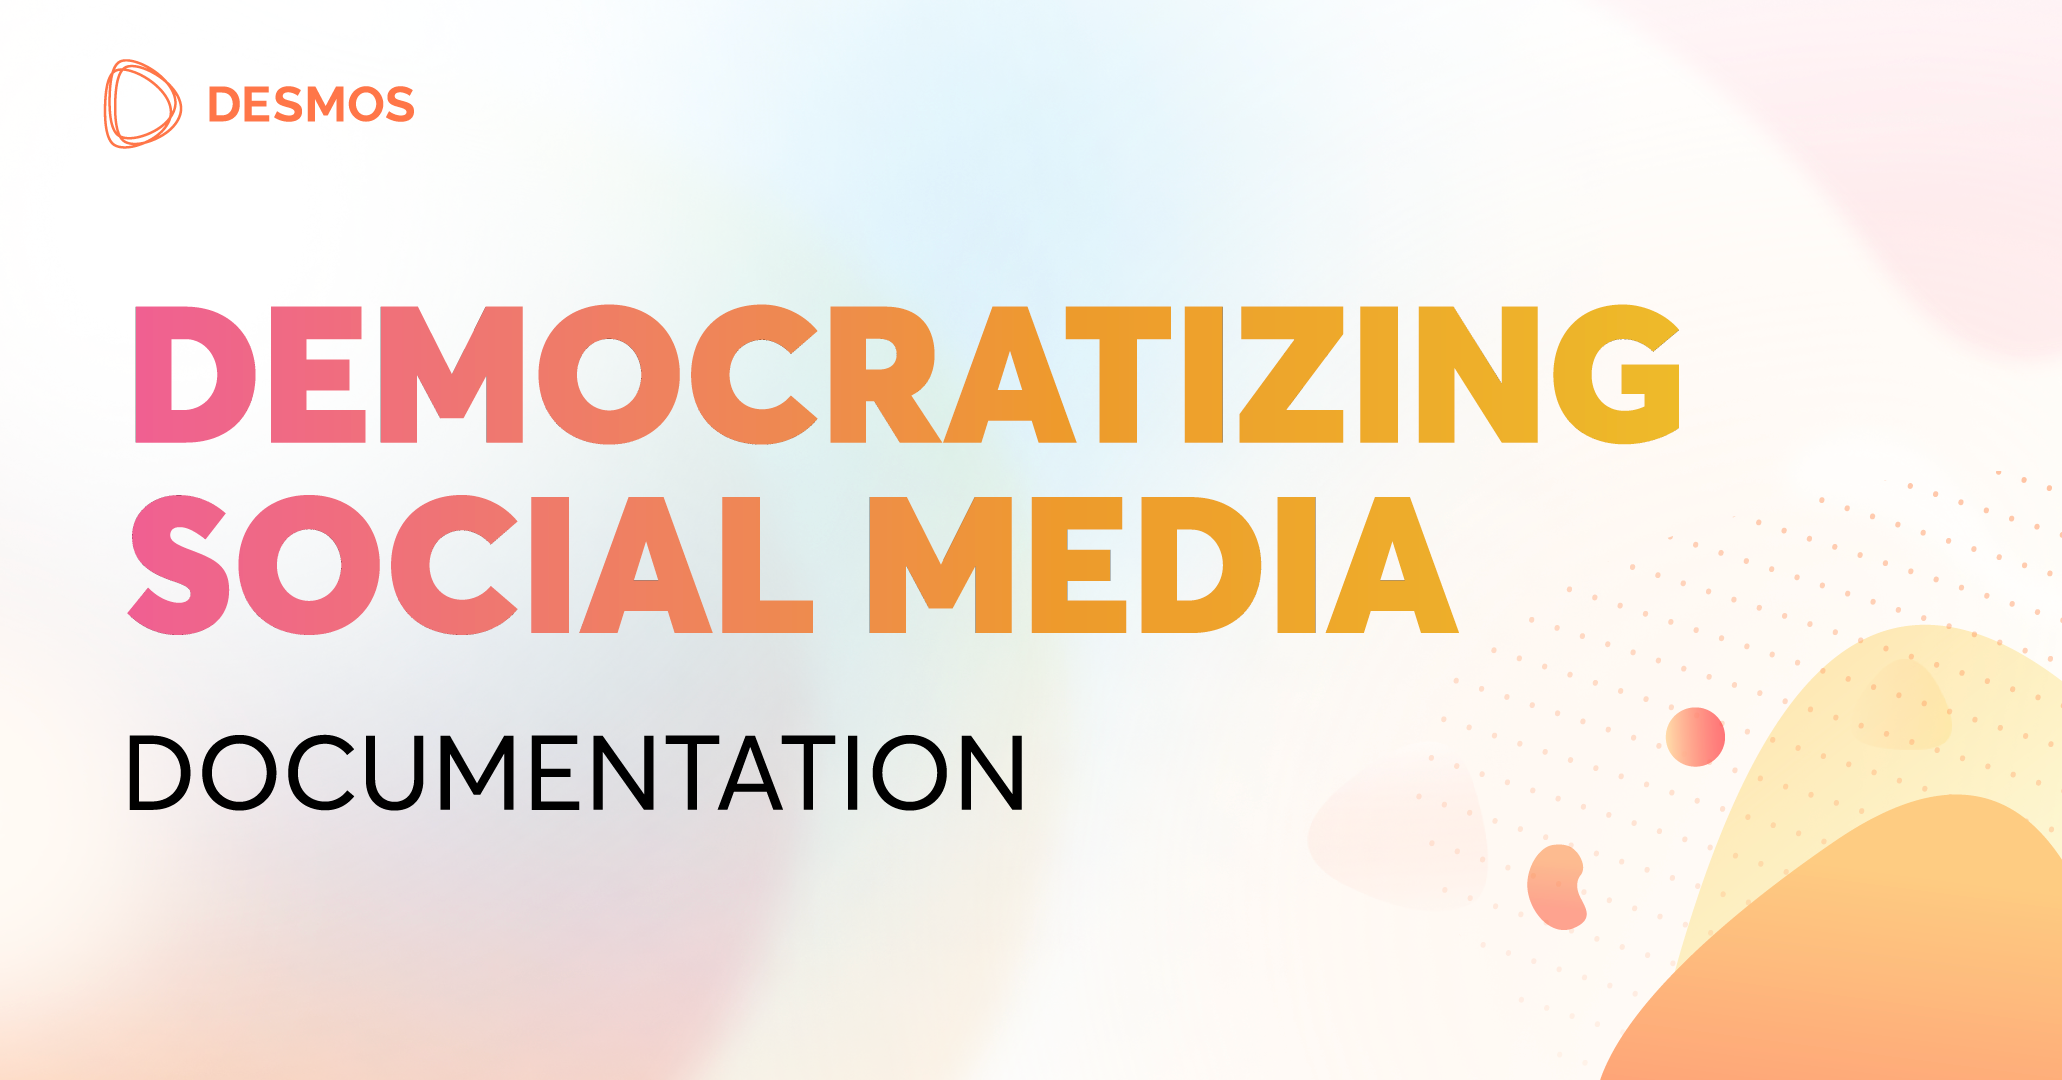
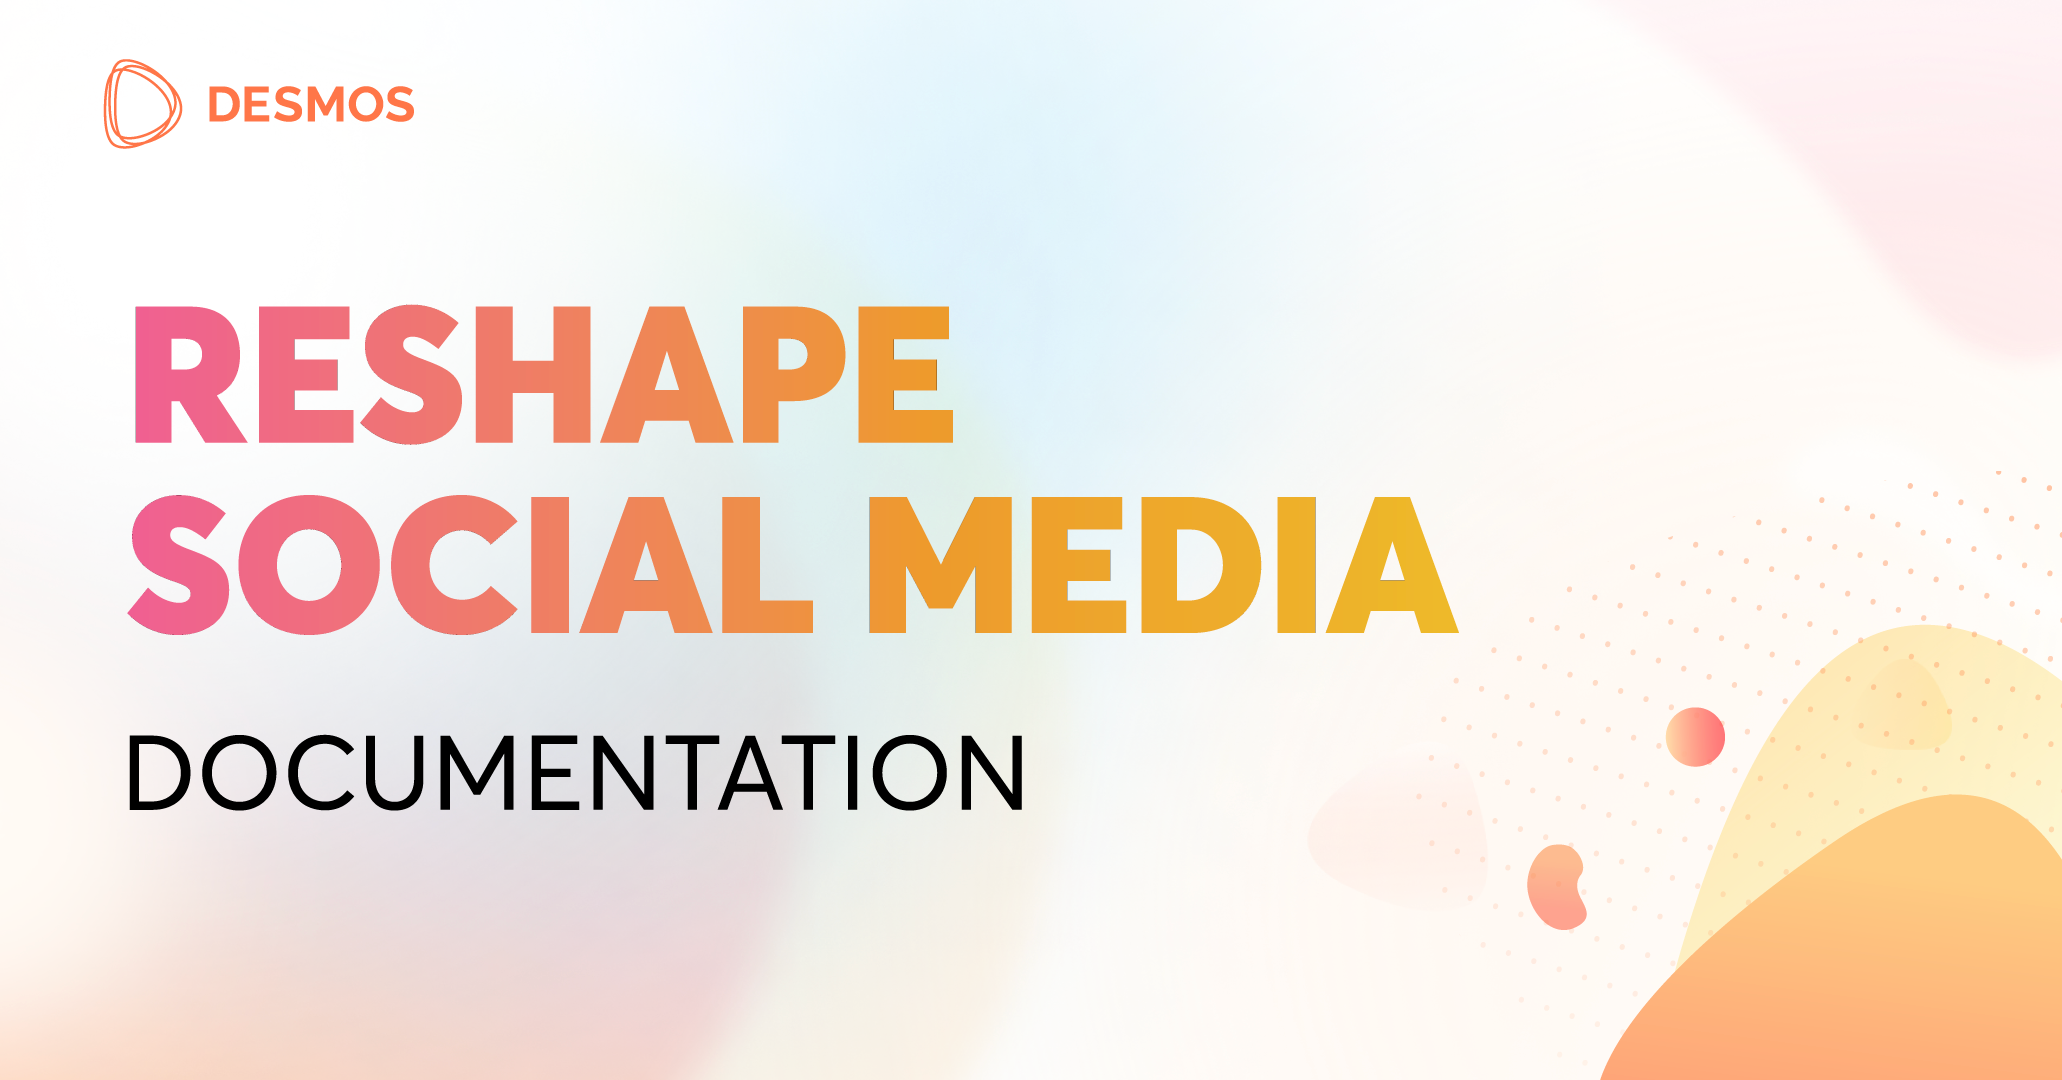
docs: update endpoints and cover image (#45)

Changed region(s): [[0.0621, 0.275, 0.838, 0.4278]]

diff --git a/docs/05-testnet/04-endpoints.md b/docs/05-testnet/04-endpoints.md
@@ -9,9 +9,17 @@ slug: endpoints
 Here below the list of all the useful endpoints you might need to interact with testnet data.
 
 ## RPC
-`https://rpc.morpheus.desmos.network:443` 
+`https://rpc.morpheus.desmos.network:443`
 
-## REST & gRPC
+## gRPC
+
+`https://grpc.morpheus.desmos.network:443`
+
+## Web Socket
+
+`wss://ws.morpheus.desmos.network:443`
+
+## REST
 
 `https://lcd.morpheus.desmos.network`
 

diff --git a/versioned_docs/version-4.2.0/05-testnet/04-endpoints.md b/versioned_docs/version-4.2.0/05-testnet/04-endpoints.md
@@ -9,9 +9,17 @@ slug: endpoints
 Here below the list of all the useful endpoints you might need to interact with testnet data.
 
 ## RPC
-`https://rpc.morpheus.desmos.network:443` 
+`https://rpc.morpheus.desmos.network:443`
 
-## REST & gRPC
+## gRPC
+
+`https://grpc.morpheus.desmos.network:443`
+
+## Web Socket
+
+`wss://ws.morpheus.desmos.network:443`
+
+## REST
 
 `https://lcd.morpheus.desmos.network`
 

diff --git a/docs/06-mainnet/06-endpoints.md b/docs/06-mainnet/06-endpoints.md
@@ -16,7 +16,14 @@ Here below the list of all the useful endpoints you might need to interact with 
 4. `https://rpc-desmos.itastakers.com`
 5. `https://rpc.desmos.nodes.guru`
 
-## REST & gRPC
+## gRPC
+`https://desmos-grpc.lavenderfive.com:443/`
+
+## Web Socket
+
+`wss://rpc.mainnet.desmos.network:443/websocket`
+
+## REST
 
 1. `https://api.mainnet.desmos.network`
 2. `http://135.181.60.250:1917`

diff --git a/versioned_docs/version-4.2.0/06-mainnet/06-endpoints.md b/versioned_docs/version-4.2.0/06-mainnet/06-endpoints.md
@@ -16,7 +16,14 @@ Here below the list of all the useful endpoints you might need to interact with 
 4. `https://rpc-desmos.itastakers.com`
 5. `https://rpc.desmos.nodes.guru`
 
-## REST & gRPC
+## gRPC
+`https://desmos-grpc.lavenderfive.com:443/`
+
+## Web Socket
+
+`wss://rpc.mainnet.desmos.network:443/websocket`
+
+## REST
 
 1. `https://api.mainnet.desmos.network`
 2. `http://135.181.60.250:1917`
